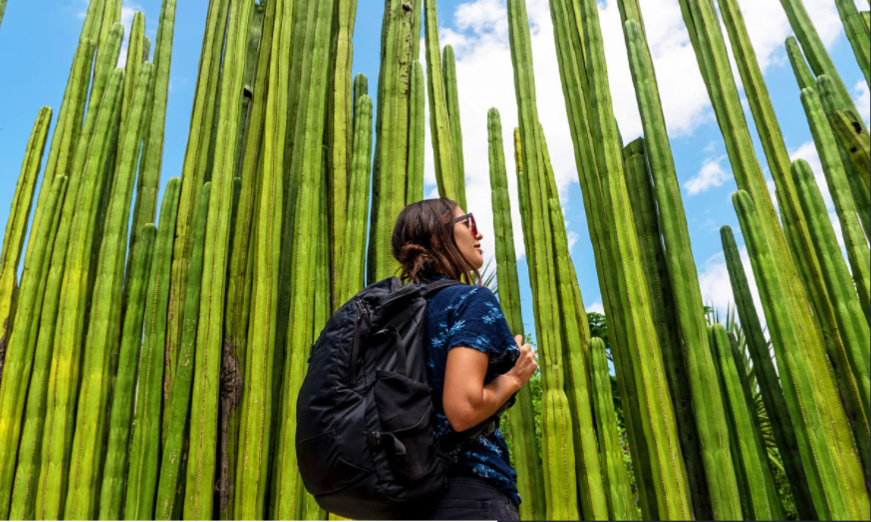
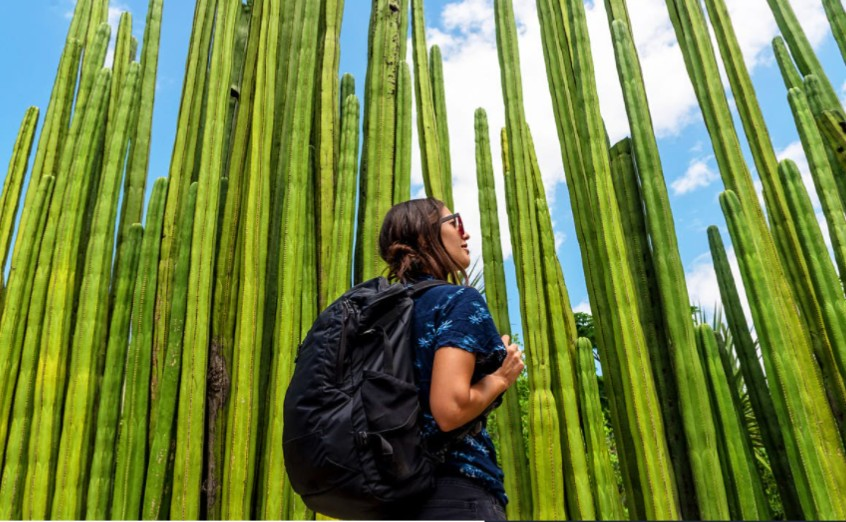
Add walking_tour css
and change two images size

diff --git a/templates/Walking tour.html b/templates/Walking tour.html
@@ -12,12 +12,13 @@
 
   <title>Walking Tour</title>
   <link rel="stylesheet" href="../static/main.css">
+  <link rel="stylesheet" href="../static/Walking tour.css">
 </head>
 <body>
   <div class="container">
     <a class="logo" href="#">AMUAY<div class="logo-second-line">Wildlife Park</div></a>
     <input type="checkbox" id="toggleNav">
-    <label for="toggleNav" class="toggleLook">&#9776</label>
+    <label for="toggleNav" class="toggleLook"></label>
     <nav>
       <ul>
         <li><a href="index.html">Home</a></li>
@@ -27,57 +28,60 @@
       </ul>
     </nav>
   </div>
-
-  <section class="Walking_tour_middle1">
+  <section class="Walking_tour">
     <h1>Walking Tour</h1>
     <h4>Map of route to discover animals and plants</h4>
-    <img src="../images/map_guide.jpg" alt="Guide ">
-
-
-  <section class="Walking_tour_middle2">
+    <img src="../images/map_guide.jpg" alt="Guide " class="walking_tour_img">
+  </section>
+<div class="content">
+  <section class="Discover_animals">
     <h1>Discover animals</h1>
-    <img src="../images/dear_in_walking_tour.jpg" alt="Deer">
+    <img src="../images/dear_in_walking_tour.jpg" alt="Deer" class="discover_animals_img">
     <p>Lorem ipsum dolor sit amet, consectetur adipisicing elit. Suscipit aliquam inventore, repellat id dicta, doloribus eaque tenetur! Expedita alias animi, voluptatibus ipsum, beatae, accusantium sunt dolore doloribus nam consectetur dolores.</p>
-
-    <h1>Discover plants</h1>
-    <img src="../images/Cacti.jpg" alt="Cacti">
-    <p>Lorem ipsum dolor sit amet, consectetur adipisicing elit. Suscipit aliquam inventore, repellat id dicta, doloribus eaque tenetur! Expedita alias animi, voluptatibus ipsum, beatae, accusantium sunt dolore doloribus nam consectetur dolores.</p>
-
   </section>
 
-  <footer>
-    <div class="flex-container">
-      <div class="left-division">
-        <h3>AMUAY<span> Wildlife Park </span></h3>
-        <ul class="contact-information">
-          <li><h4>Phone</h4></li>
-          <li>+58 123 456 7890</li>
-          <li><h4>Email</h4></li>
-          <li>info@amuaywp.com</li>
-          <li><h4>Address</h4></li>
-          <li>Venezuela, South American</li>
-        </ul>
-      </div>
+  <section class="Discover_plants">
+    <h1>Discover plants</h1>
+    <img src="../images/Cacti.jpg" alt="Cacti" class="discover_animals_img">
+    <p>Lorem ipsum dolor sit amet, consectetur adipisicing elit. Suscipit aliquam inventore, repellat id dicta, doloribus eaque tenetur! Expedita alias animi, voluptatibus ipsum, beatae, accusantium sunt dolore doloribus nam consectetur dolores.</p>
+  </section>
 
-      <div class="right-division">
-        <div class="subscribe-news">
-          <form action="">
-            <label for="email" class="newsletter" style="font-weight: bold">Newsletter Signup</label>
-            <input type="text" id="email" name="email" placeholder="Email Address">
-            <input type="submit" class="subscribe" value="Subscribe">
-          </form>
-        </div>
 
-        <hr style="width:65%">
-
-        <ul class="social">
-          <li><h5>Follow Us</h5></li>
-          <li><a href="#"><i class="fa-brands fa-instagram"></i></a></li>
-          <li><a href="#"><i class="fa-brands fa-facebook-square"></i></a></li>
-          <li><a href="#"><i class="fa-brands fa-twitter"></i></a></li>
-        </ul>
-      </div>
+</div>
+<footer>
+  <div class="flex-container">
+    <div class="left-division">
+      <h3>AMUAY<span> Wildlife Park </span></h3>
+      <ul class="contact-information">
+        <li><h4>Phone</h4></li>
+        <li>+58 123 456 7890</li>
+        <li><h4>Email</h4></li>
+        <li>info@amuaywp.com</li>
+        <li><h4>Address</h4></li>
+        <li>Venezuela, South American</li>
+      </ul>
     </div>
-  </footer>
+
+    <div class="right-division">
+      <div class="subscribe-news">
+        <form action="">
+          <label for="email" class="newsletter" style="font-weight: bold">Newsletter Signup</label>
+          <input type="text" id="email" name="email" placeholder="Email Address">
+          <input type="submit" class="subscribe" value="Subscribe">
+        </form>
+      </div>
+
+      <hr style="width:65%">
+
+      <ul class="social">
+        <li><h5>Follow Us</h5></li>
+        <li><a href="#"><i class="fa-brands fa-instagram"></i></a></li>
+        <li><a href="#"><i class="fa-brands fa-facebook-square"></i></a></li>
+        <li><a href="#"><i class="fa-brands fa-twitter"></i></a></li>
+      </ul>
+    </div>
+  </div>
+</footer>
+
 </body>
 </html>

diff --git a/static/Walking tour.css b/static/Walking tour.css
@@ -1,0 +1,53 @@
+.Walking_tour {
+  padding: 10%;
+  padding-top: 5%;
+  padding-bottom: 5%;
+  text-align: center;
+  font-size: 2rem;
+}
+
+.walking_tour_img {
+  padding-top: 20px;
+  display: flex;
+  align-content: center;
+  justify-content: center;
+  width: 100%;
+}
+
+.Discover_animals {
+  text-align: center;
+  padding:5%;
+  padding-top:0;
+}
+
+.discover_animals_img {
+  padding-top: 20px;
+  padding-bottom: 20px;
+  display: flex;
+  align-content: center;
+  justify-content: center;
+  width: 100%;
+}
+
+.Discover_plants {
+  text-align: center;
+  padding: 5%;
+  padding-top:0;
+}
+
+.discover_animals_img {
+  padding-top: 20px;
+  padding-bottom: 20px;
+  display: flex;
+  align-content: center;
+  justify-content: center;
+  width: 100%;
+}
+
+@media screen and (min-width: 600px) {
+  .content {
+    display: grid;
+    grid-template-columns: 1fr 1fr;
+    grid-column-gap: 5px;
+  }
+}
